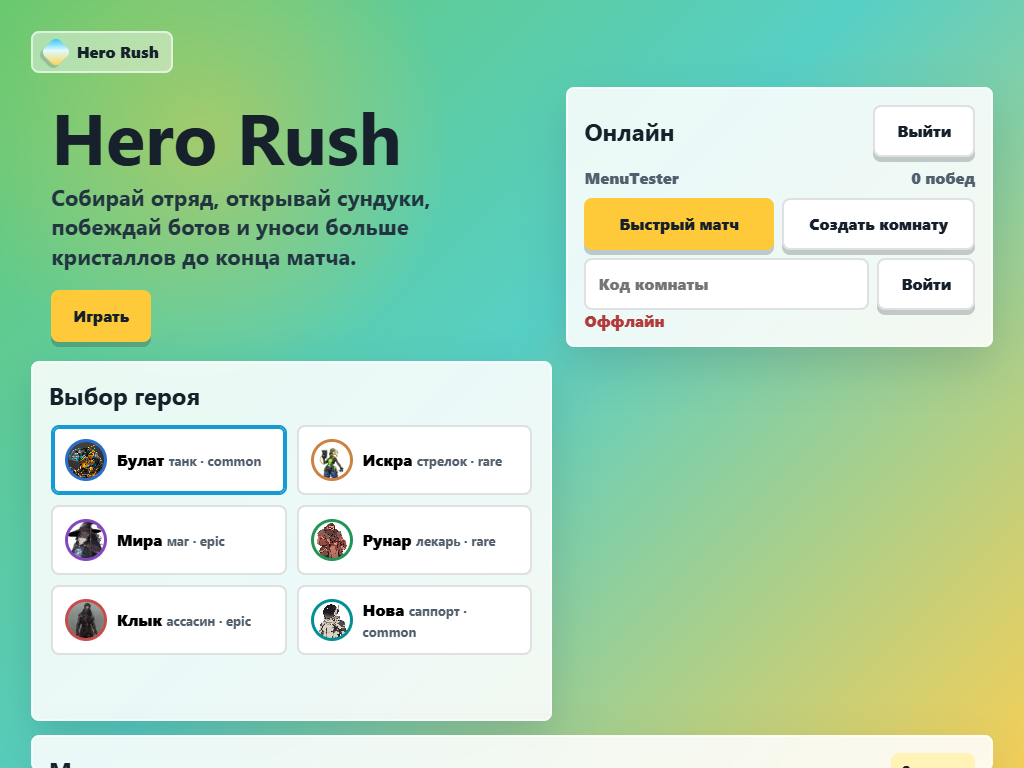
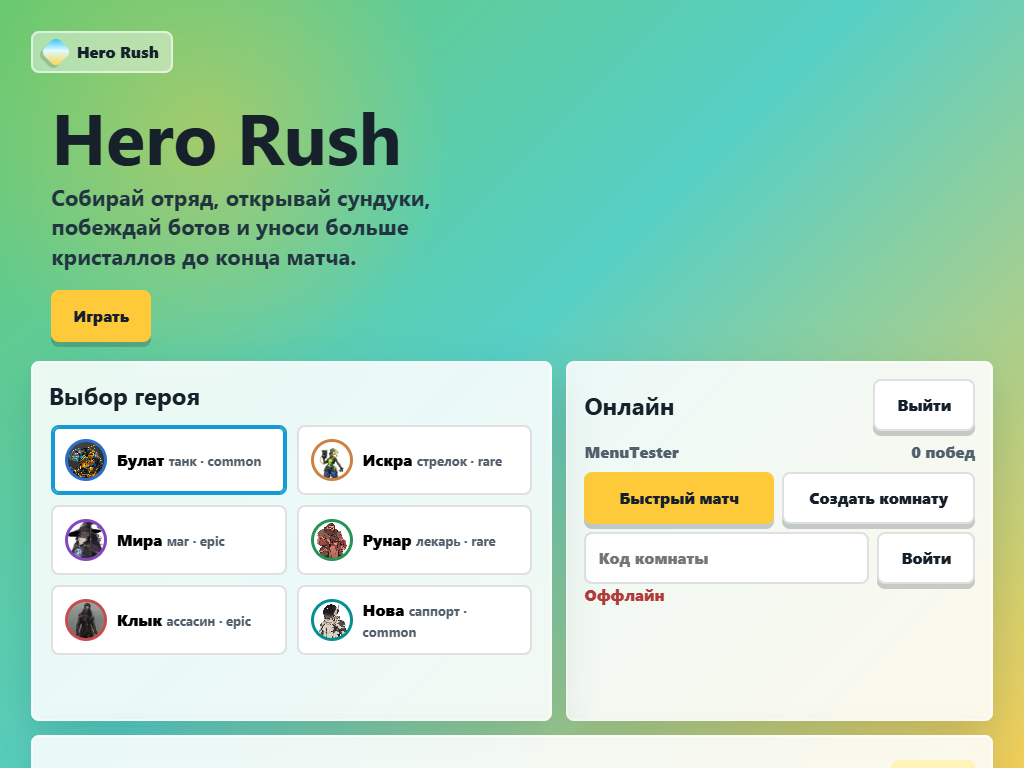
Release Hero Rush v1.2.1

diff --git a/styles.css b/styles.css
@@ -128,7 +128,7 @@ button {
 
 .account-panel {
   grid-column: 2 / 3;
-  grid-row: 2;
+  grid-row: 3;
   align-self: start;
 }
 
@@ -249,6 +249,21 @@ p {
 .shop-panel {
   grid-column: 1 / -1;
   grid-row: 4;
+  min-height: 150px;
+  display: flex;
+  flex-direction: column;
+  justify-content: flex-start;
+  padding-top: 22px;
+  overflow: hidden;
+}
+
+.shop-panel .panel-head {
+  min-height: 38px;
+  align-items: center;
+}
+
+.shop-panel h2 {
+  line-height: 1;
 }
 
 .panel-head {

diff --git a/CHANGELOG.md b/CHANGELOG.md
@@ -2,6 +2,14 @@
 
 All notable changes to this project are documented here.
 
+## [v1.2.1] - 2026-07-08
+
+### Changed
+
+- Adjusted the menu grid so the online account panel sits below the hero roster area.
+- Stabilized the shop panel height, spacing and title alignment.
+- Refreshed the menu layout verification screenshot.
+
 ## [v1.2.0] - 2026-07-08
 
 ### Added